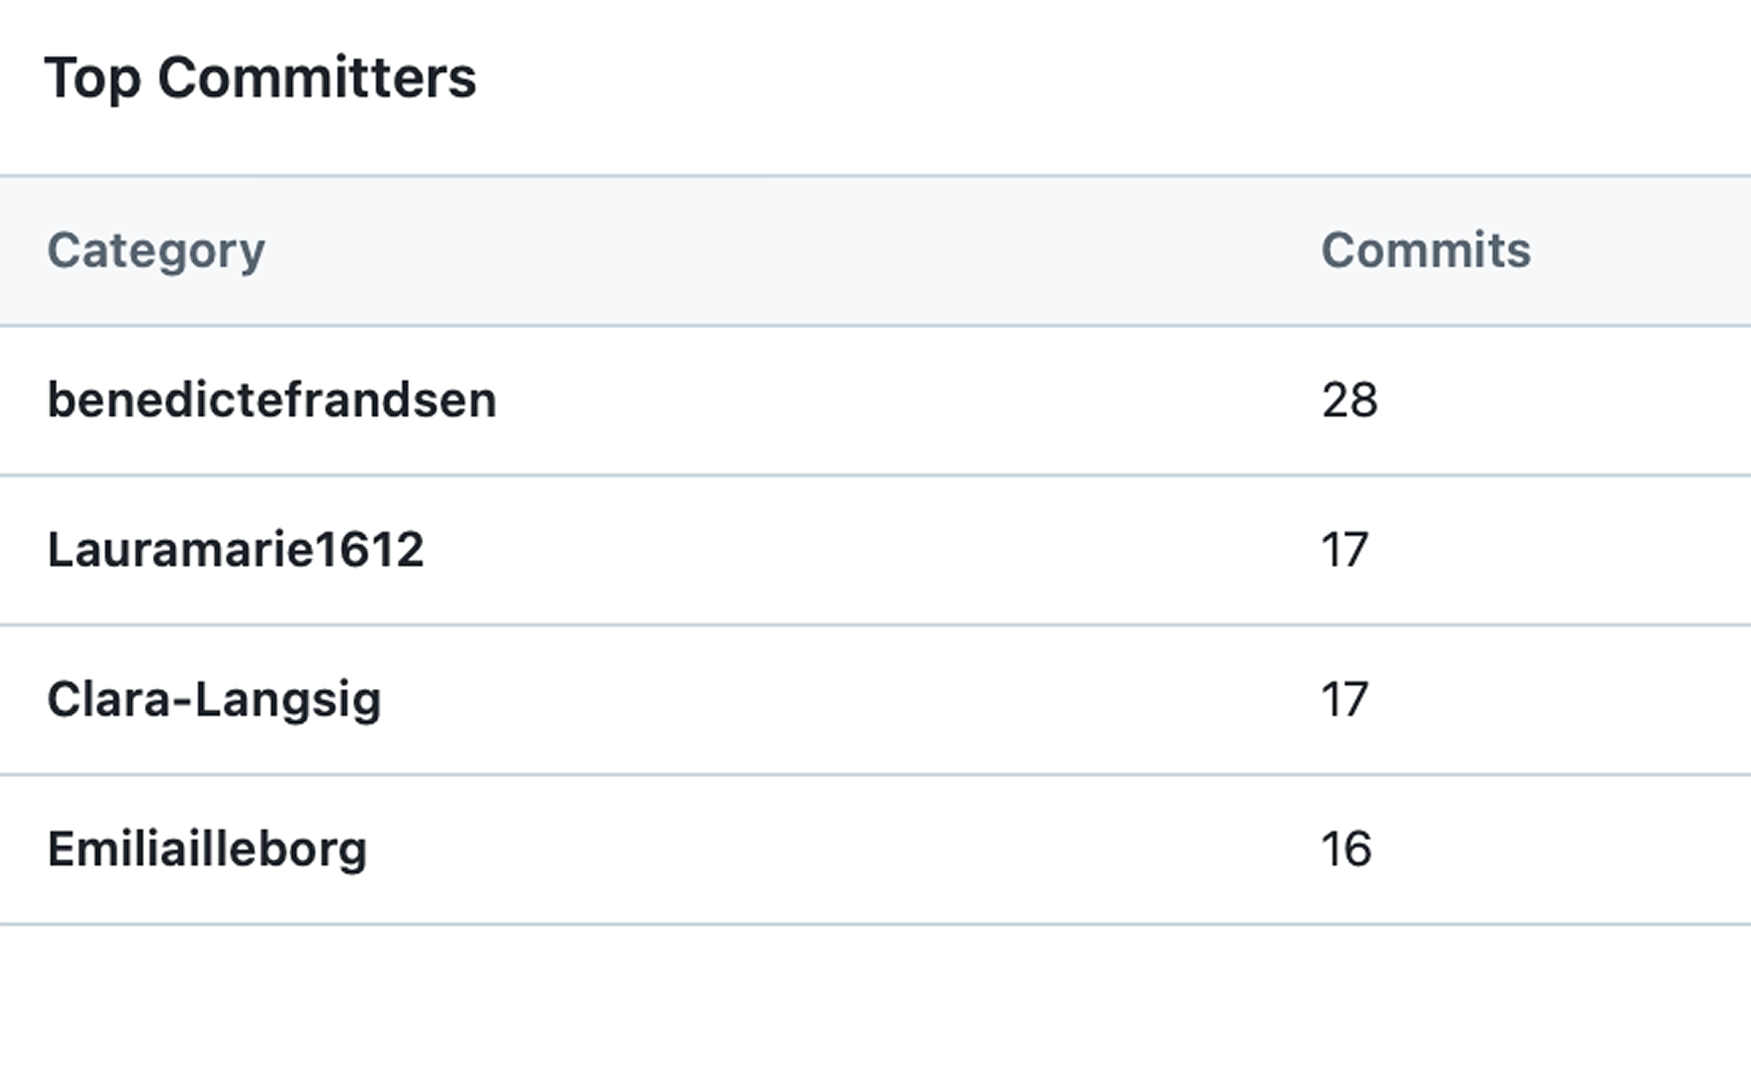
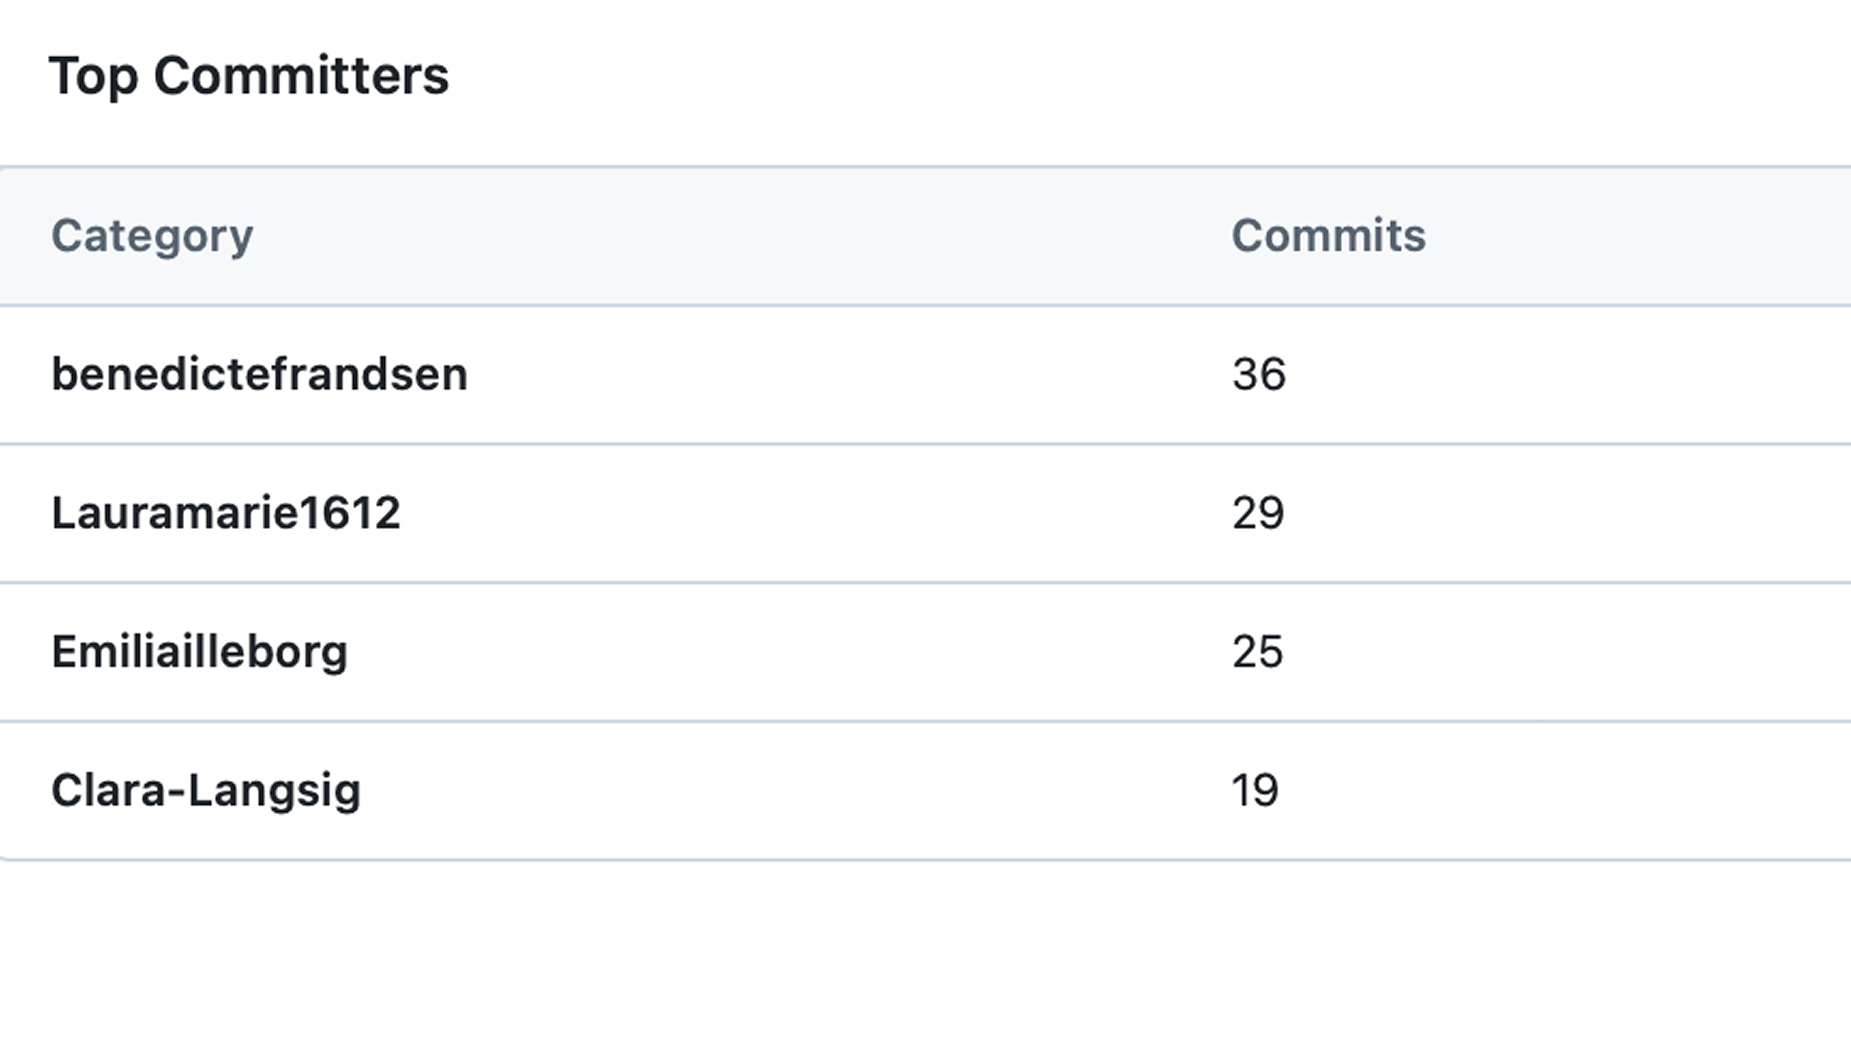
readme

diff --git a/README.md b/README.md
@@ -220,8 +220,8 @@ Vi arbejdede med meningsfulde og beskrivende commit-beskeder, som kort beskrev d
 
 Projektet blev udviklet direkte i det fælles repository uden brug af separate branches eller pull requests. Samarbejdet blev i stedet koordineret gennem løbende kommunikation i gruppen da vi sad sammen fysisk, og ved regelmæssigt at synkronisere ændringer via GitHub.
 
-![Commits](images/commits.png)
-![Commits](images/commits2.png)
+![CSS validation](images/commits.png)
+![HTML validation](images/commits2.png)
 
 ## Konklusion
 